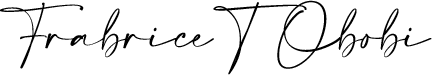
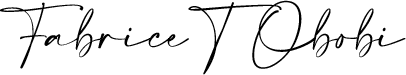
edit3

Changed region(s): [[0.0, 0.0, 1.0, 1.0], [0.3547, 0.3733, 0.3842, 0.4267], [0.2956, 0.3733, 0.3251, 0.4267]]

diff --git a/index.html b/index.html
@@ -3119,7 +3119,7 @@ document.getElementsByTagName('head')[0].appendChild(htmlDiv.childNodes[0]);
                                 <img style="
     width: 280px;
 " src="assets\img\signature.png" alt="signature">
-                                <p>Frabrice T. Obobi</p>
+                                <p>Fabrice T. Obobi</p>
                                 <span>Official Representative</span>
                             </div>
                         </div>
